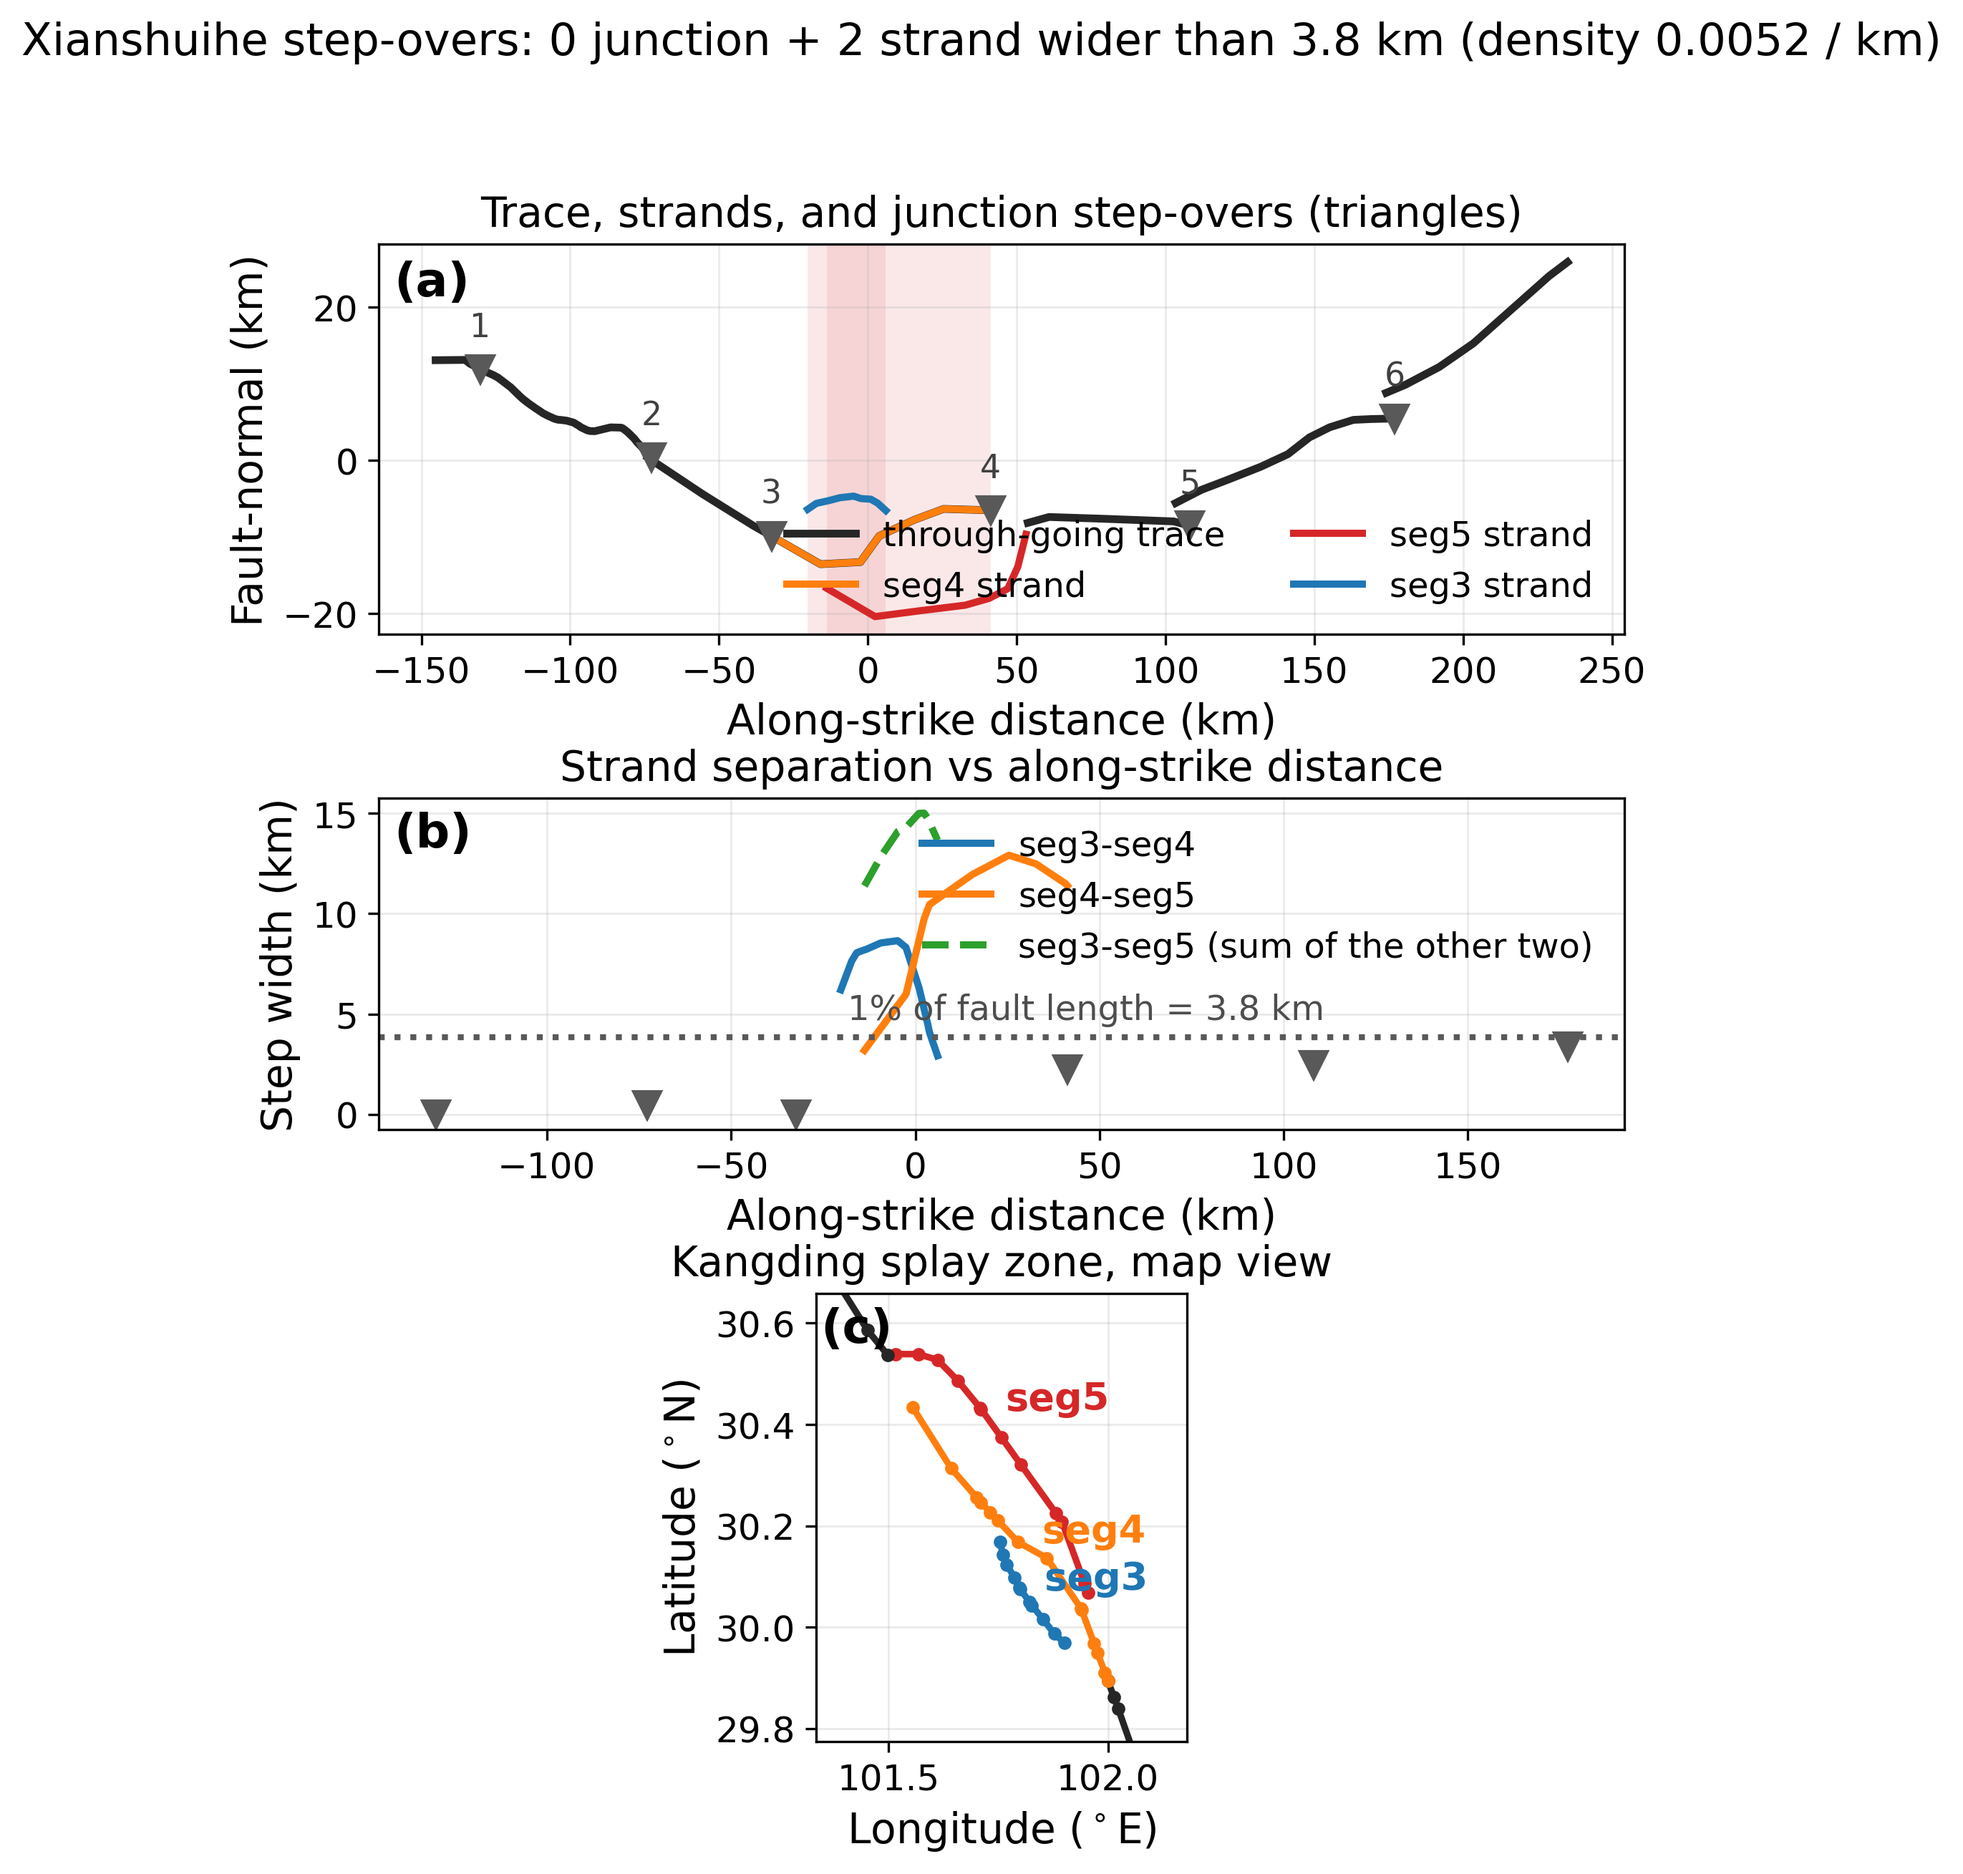
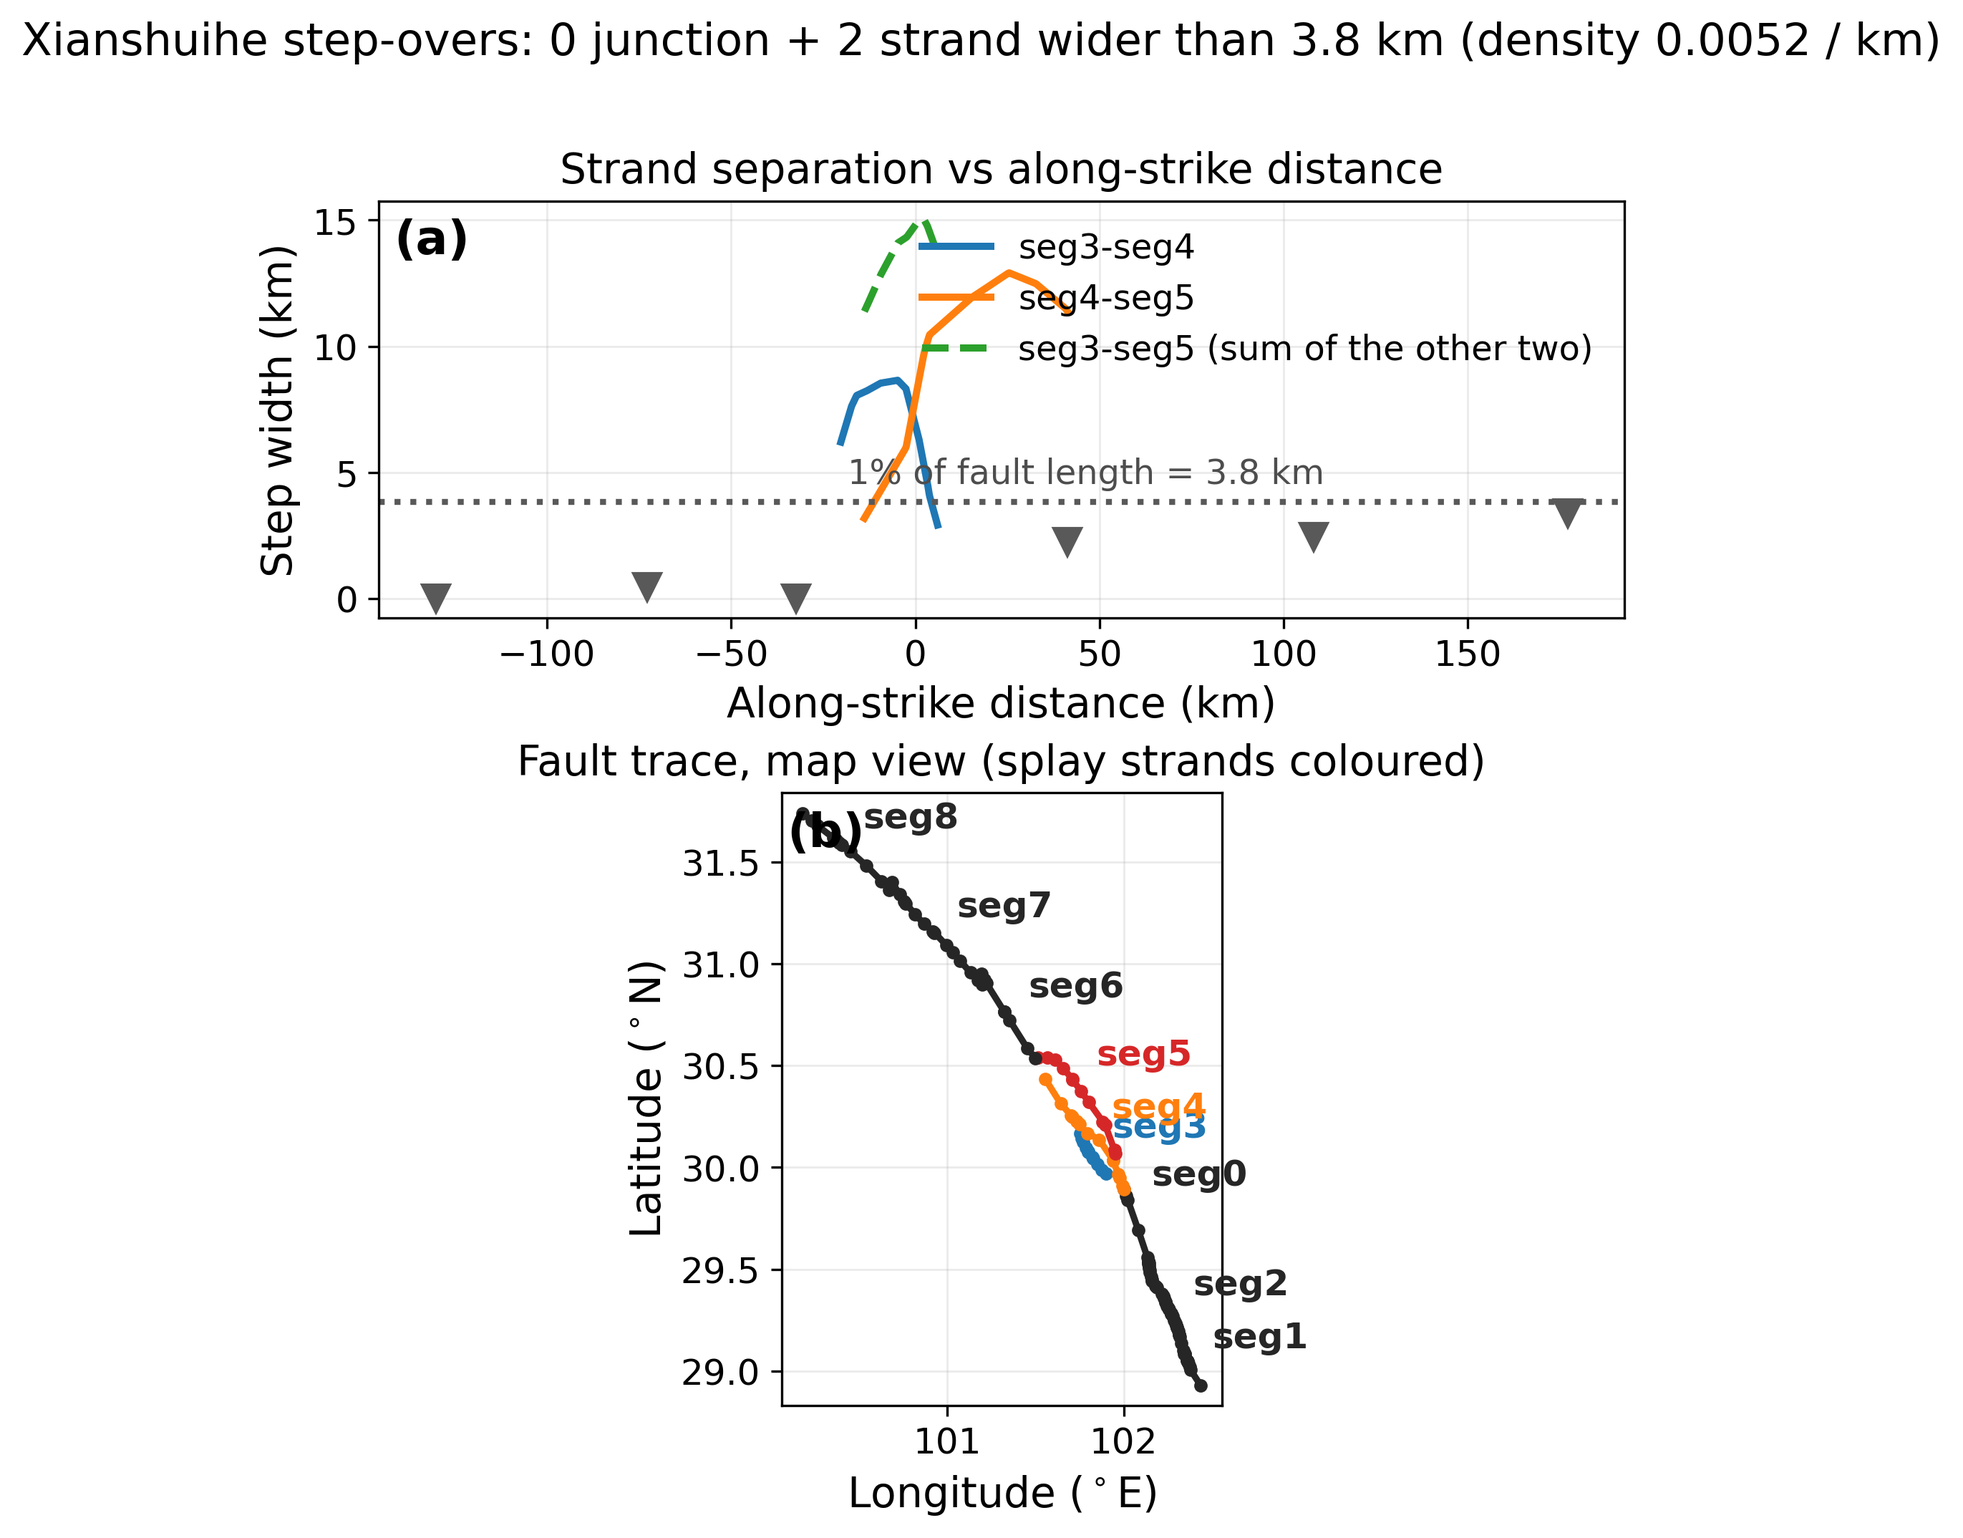
xianshuihe: two-panel step-over figure over the full trace
Drops the along-strike overview panel and widens the map view from the
Kangding splay zoom to the whole trace, labelling all nine segments.

Claude-Session: https://claude.ai/code/session_01RE3FJYuABNM93XESxYXkRp

diff --git a/compset/xianshuihe.gmsh.lite/map_step_overs.py b/compset/xianshuihe.gmsh.lite/map_step_overs.py
@@ -174,35 +174,9 @@ def main() -> None:
         "xtick.labelsize": 12, "ytick.labelsize": 12, "legend.fontsize": 11.5,
         "savefig.bbox": "tight", "pdf.fonttype": 42, "ps.fonttype": 42,
     })
-    fig = plt.figure(figsize=(190 * MM, 230 * MM))
-    gs = fig.add_gridspec(3, 1, height_ratios=[1.0, 0.85, 1.15], hspace=0.42)
-    ax_a, ax_b, ax_c = (fig.add_subplot(gs[0]), fig.add_subplot(gs[1]),
-                        fig.add_subplot(gs[2]))
-
-    # (a) along-strike overview
-    for k, p in enumerate(pieces):
-        ax_a.plot(p[:, 0], p[:, 1], "-", lw=2.6, color="0.15",
-                  label="through-going trace" if k == 0 else None)
-    ax_a.plot(rotated[4][:, 0], rotated[4][:, 1], "-", lw=2.4, color="tab:orange",
-              label="seg4 strand")
-    ax_a.plot(rotated[5][:, 0], rotated[5][:, 1], "-", lw=2.4, color="tab:red",
-              label="seg5 strand")
-    ax_a.plot(rotated[3][:, 0], rotated[3][:, 1], "-", lw=2.4, color="tab:blue",
-              label="seg3 strand")
-    for o in counted_overlaps:
-        ax_a.axvspan(o["x_lo"], o["x_hi"], color="tab:red", alpha=0.10, lw=0)
-    for s_ in steps:
-        ax_a.plot(s_["a_end"][0], s_["a_end"][1], "v", ms=9, color="0.35")
-        ax_a.annotate(f"{s_['index']}", (s_["a_end"][0], s_["a_end"][1]), fontsize=11,
-                      color="0.25", xytext=(0, 11), textcoords="offset points",
-                      ha="center")
-    ax_a.set_xlabel("Along-strike distance (km)")
-    ax_a.set_ylabel("Fault-normal (km)")
-    ax_a.grid(alpha=0.25, lw=0.7)
-    ax_a.legend(loc="lower right", frameon=False, ncol=2)
-    ax_a.text(0.012, 0.96, "(a)", transform=ax_a.transAxes, fontsize=16,
-              fontweight="bold", va="top")
-    ax_a.set_title("Trace, strands, and junction step-overs (triangles)")
+    fig = plt.figure(figsize=(190 * MM, 185 * MM))
+    gs = fig.add_gridspec(2, 1, height_ratios=[0.85, 1.25], hspace=0.34)
+    ax_b, ax_c = fig.add_subplot(gs[0]), fig.add_subplot(gs[1])
 
     # (b) separation profiles -- this is the quantitative step-over map
     for o in overlaps:
@@ -220,7 +194,7 @@ def main() -> None:
     ax_b.set_ylabel("Step width (km)")
     ax_b.grid(alpha=0.25, lw=0.7)
     ax_b.legend(loc="upper right", frameon=False)
-    ax_b.text(0.012, 0.96, "(b)", transform=ax_b.transAxes, fontsize=16,
+    ax_b.text(0.012, 0.96, "(a)", transform=ax_b.transAxes, fontsize=16,
               fontweight="bold", va="top")
     ax_b.set_title("Strand separation vs along-strike distance")
 
@@ -228,22 +202,21 @@ def main() -> None:
     for i_, seg in enumerate(segs):
         ax_c.plot(seg[:, 0], seg[:, 1], "-o", ms=3.5, lw=2.2,
                   color={3: "tab:blue", 4: "tab:orange", 5: "tab:red"}.get(i_, "0.15"))
-        if i_ in (3, 4, 5):
-            ax_c.annotate(f"seg{i_}", (seg[len(seg) // 2, 0], seg[len(seg) // 2, 1]),
-                          fontsize=13, fontweight="bold",
-                          color={3: "tab:blue", 4: "tab:orange", 5: "tab:red"}[i_],
-                          xytext=(8, 0), textcoords="offset points")
-    splay = np.vstack([segs[3], segs[4], segs[5]])
-    padx, pady = 0.18, 0.12
-    ax_c.set_xlim(splay[:, 0].min() - padx, splay[:, 0].max() + padx)
-    ax_c.set_ylim(splay[:, 1].min() - pady, splay[:, 1].max() + pady)
+        ax_c.annotate(f"seg{i_}", (seg[len(seg) // 2, 0], seg[len(seg) // 2, 1]),
+                      fontsize=12, fontweight="bold",
+                      color={3: "tab:blue", 4: "tab:orange", 5: "tab:red"}.get(i_, "0.15"),
+                      xytext=(8, 5), textcoords="offset points")
+    allpts = np.vstack(segs)
+    padx, pady = 0.12, 0.10
+    ax_c.set_xlim(allpts[:, 0].min() - padx, allpts[:, 0].max() + padx)
+    ax_c.set_ylim(allpts[:, 1].min() - pady, allpts[:, 1].max() + pady)
     ax_c.set_aspect(1.0 / np.cos(np.radians(lat0)))
     ax_c.set_xlabel("Longitude ($^\\circ$E)")
     ax_c.set_ylabel("Latitude ($^\\circ$N)")
     ax_c.grid(alpha=0.25, lw=0.7)
-    ax_c.text(0.012, 0.97, "(c)", transform=ax_c.transAxes, fontsize=16,
+    ax_c.text(0.012, 0.97, "(b)", transform=ax_c.transAxes, fontsize=16,
               fontweight="bold", va="top")
-    ax_c.set_title("Kangding splay zone, map view")
+    ax_c.set_title("Fault trace, map view (splay strands coloured)")
 
     fig.suptitle(f"Xianshuihe step-overs: {len(counted)} junction + "
                  f"{len(counted_overlaps)} strand wider than {threshold:.1f} km "
